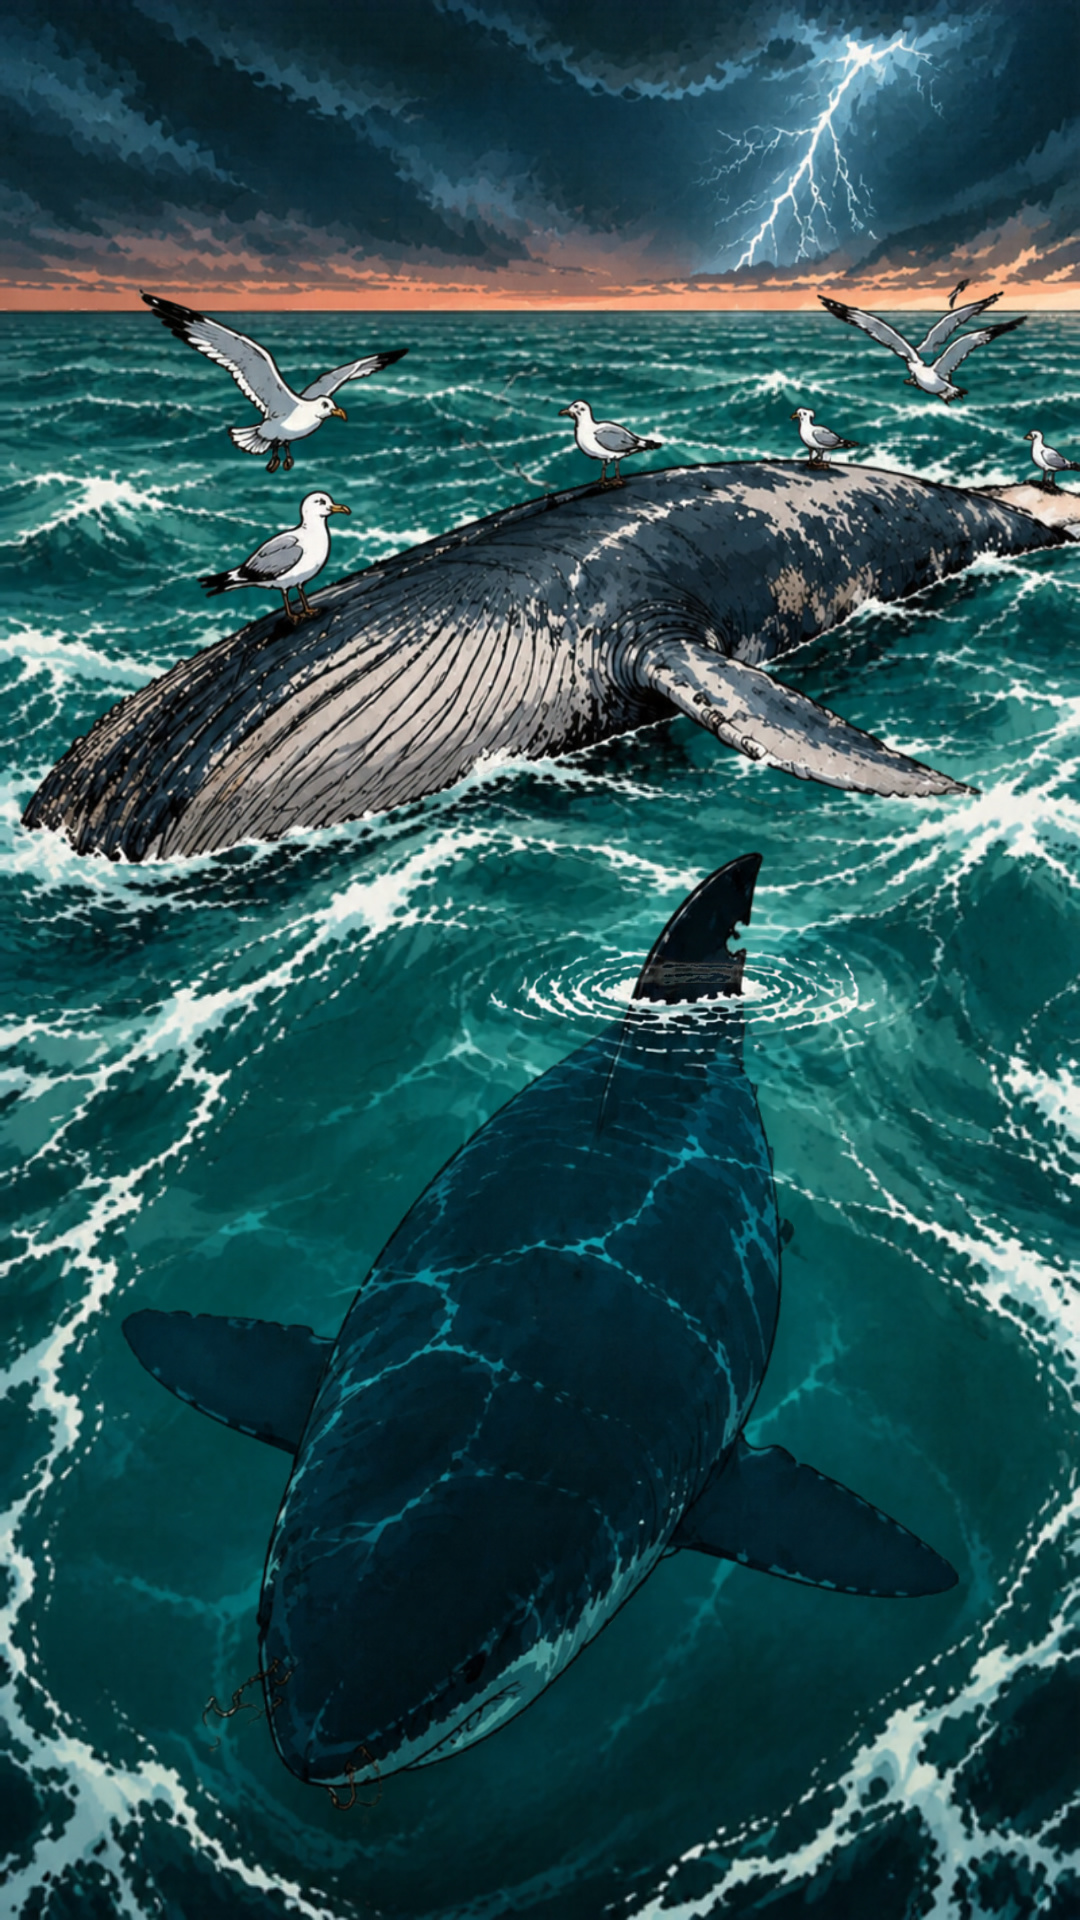
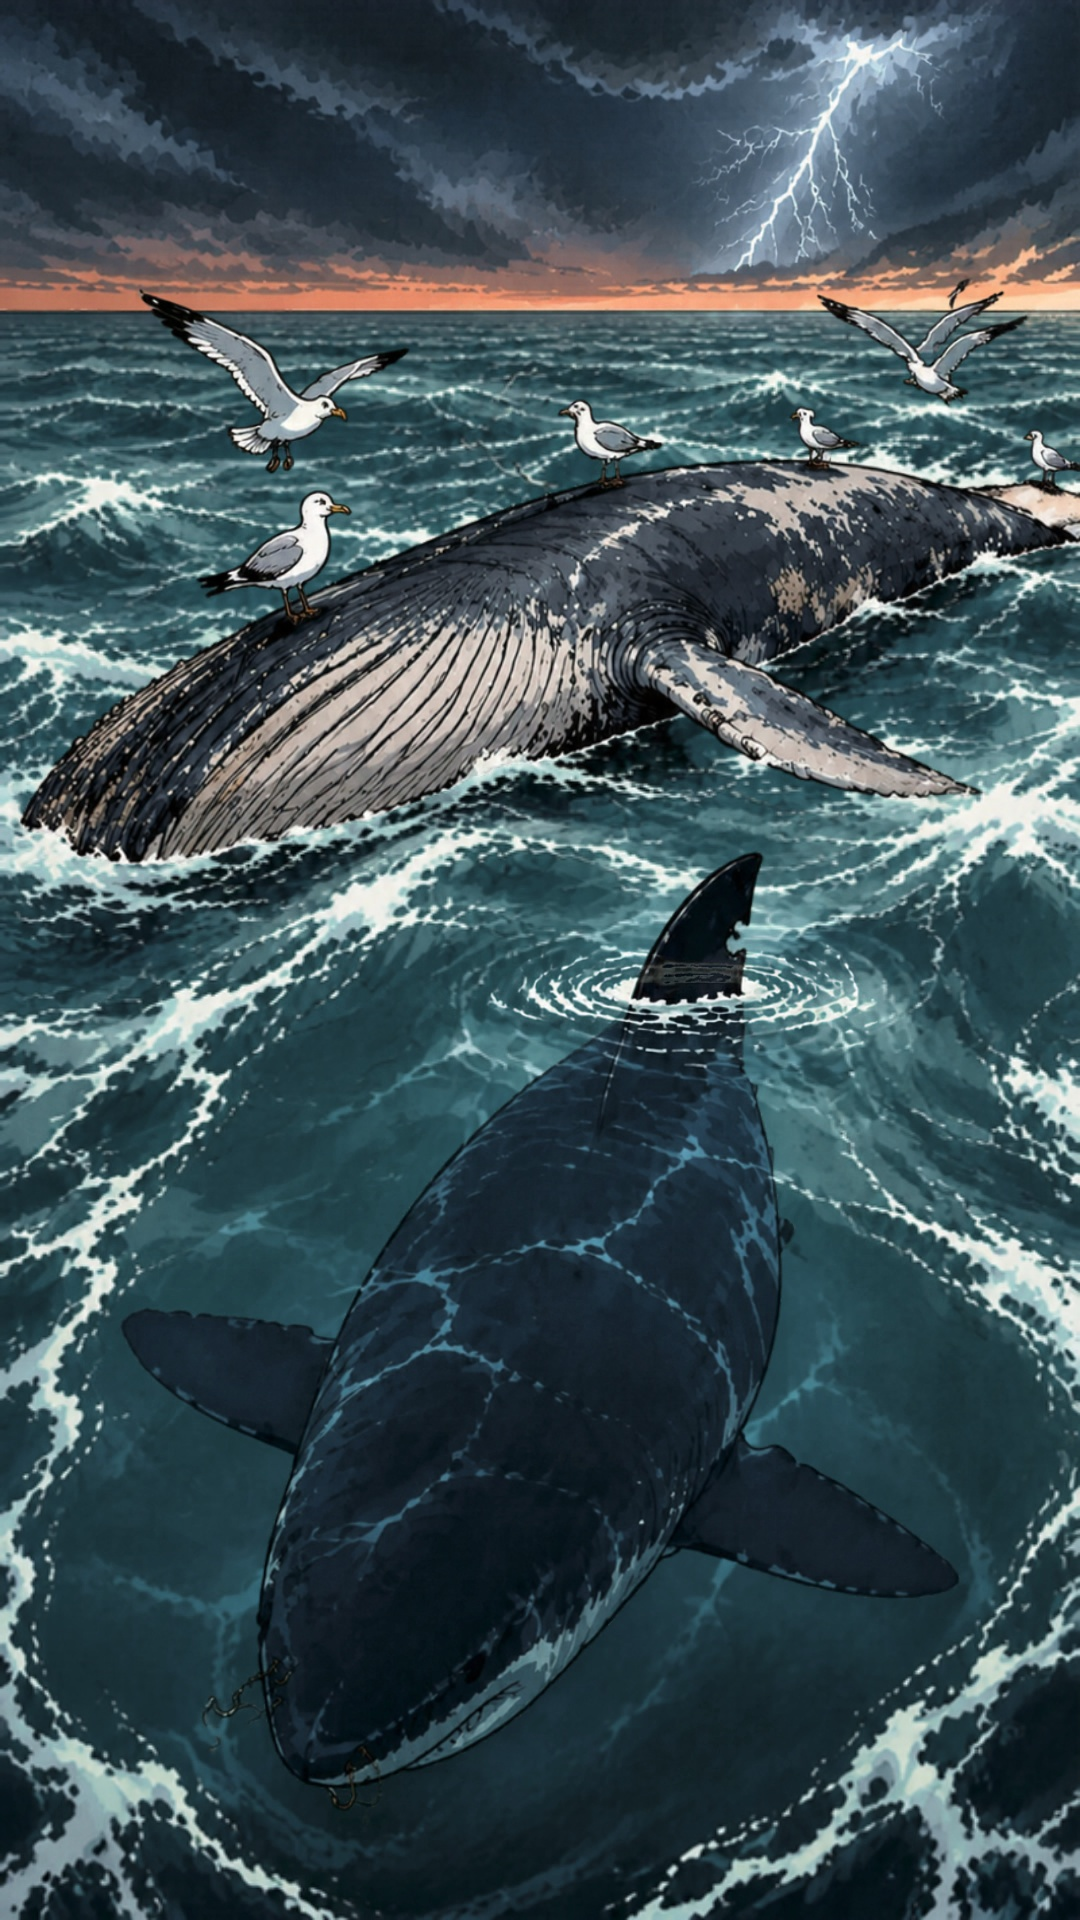
ADA 9: 10 sahnenin deniz rengi 08'e uyduruldu (deniz-08.py)
Claude-Session: https://claude.ai/code/session_014JxJGGMAcsX945kBrKhihb

diff --git a/hikaye-video/projeler/ada9/deniz-08.py b/hikaye-video/projeler/ada9/deniz-08.py
@@ -1,0 +1,18 @@
+#!/usr/bin/env python3
+"""Bir sahnenin denizini 08'deki renge (ton~98, doygunluk~112, parlaklık~71) çeker. Yalnızca mavi-yeşil, doygun pikseller etkilenir
+(köpekbalığı, kaya, gökyüzü, kanca, Kemal aynı kalır). Kullanım: python3 deniz-08.py <giris.jpg> <cikti.jpg> [guc=0.9]"""
+import sys, cv2, numpy as np
+im = cv2.imread(sys.argv[1]); guc = float(sys.argv[3]) if len(sys.argv) > 3 else 0.9
+HT, ST, VT = 98.0, 112.0, 71.0
+hsv = cv2.cvtColor(im, cv2.COLOR_BGR2HSV).astype(np.float32)
+h, s, v = hsv[..., 0], hsv[..., 1], hsv[..., 2]
+sel = (h > 76) & (h < 112) & (s > 70) & (v > 28)
+if sel.sum() < 5000: print('az deniz, atlandi'); cv2.imwrite(sys.argv[2], im); sys.exit()
+mh, ms, mv = (float(np.median(x[sel])) for x in (h, s, v))
+ks = float(np.clip(ST / ms, 0.5, 1.2)); kv = float(np.clip(VT / mv, 0.6, 1.2))
+m = np.clip((h - 74) / 5, 0, 1) * np.clip((114 - h) / 5, 0, 1) * np.clip((s - 55) / 25, 0, 1) * np.clip((v - 20) / 15, 0, 1)
+m = cv2.GaussianBlur(m, (0, 0), 1.4) * guc
+h2 = h + (HT - mh) * 1.0
+out = np.dstack([h * (1 - m) + np.clip(h2, 0, 179) * m, s * (1 - m) + np.clip(s * ks, 0, 255) * m, v * (1 - m) + np.clip(v * kv, 0, 255) * m])
+cv2.imwrite(sys.argv[2], cv2.cvtColor(np.clip(out, 0, 255).astype(np.uint8), cv2.COLOR_HSV2BGR), [cv2.IMWRITE_JPEG_QUALITY, 95])
+print('tamam: ton %.0f->%.0f doygunluk %.0f->%.0f parlaklik %.0f->%.0f' % (mh, HT, ms, ms * ks, mv, mv * kv))
